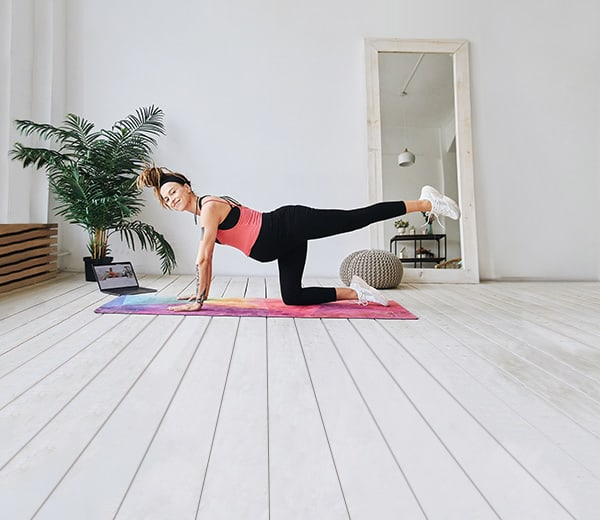
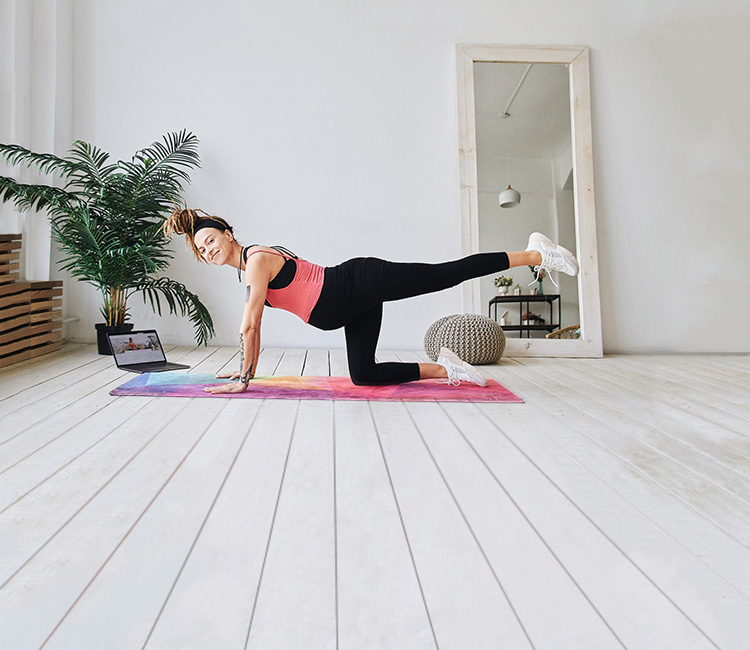
Change images and improve hero

diff --git a/src/views/courses/sektamama.vue b/src/views/courses/sektamama.vue
@@ -1,7 +1,7 @@
 <template lang="pug">
 div.course
 
-	hero(image='course_bg-sectamama.jpg', title='ИДЕАЛЬНОЕ ТЕЛО ДЛЯ МАМ', inversed)
+	hero(image='course_bg-sectamama.jpg', title='ИДЕАЛЬНОЕ ТЕЛО ДЛЯ МАМ')
 		p Пришло время обновить тело, которое с достоинством прошло испытание на прочность. Мы создали программу «Идеальное тело для мамы», чтобы вы могли успевать по максимуму: заниматься ребенком, собой, отдыхать и находить силы и время для тренировок.
 		p С вас — желание любоваться собой в зеркале и стать примером для своего малыша. С нас — детально проработанная программа, сбалансированный рацион, консультации и поддержка команды профессиональных кураторов и экспертов, которые не понаслышке знают, какой путь вы сейчас проходите. Ведь они тоже мамы.
 		template(v-slot:buttons)

diff --git a/src/views/courses/main.vue b/src/views/courses/main.vue
@@ -53,13 +53,14 @@
 				.img(:style="{ backgroundImage: `url(' ${require('@/assets/images/course_wide_bg-pregnant.jpg')} ')`}")
 				.mobile-img(:style="{ backgroundImage: `url(' ${require('@/assets/images/course_mobile_bg-pregnant.jpg')} ')`}")
 			.content-wrapper
-				.content
+				.content.fix-to-top
 					.title Школа идеального тела для беременных
+					p СО ВТОРОГО ТРИМЕСТРА
 					p Поможет:
 					ul
 						li сохранить форму,
 						li укрепить организм,
-						li обеспечить здоровое протекание беременности. СО ВТОРОГО ТРИМЕСТРА
+						li обеспечить здоровое протекание беременности.
 					.buttons
 						router-link(title='#sektamama', to='/online-courses/pregnant')
 							green-btn Подробности
@@ -181,6 +182,11 @@
 		.content {
 			padding: 20px var(--col-space);
 			max-width: calc(var(--col-total)*6 /2);
+			@media (min-width: 601px) {
+				&.fix-to-top {
+					align-self: flex-start;
+				}
+			}
 			.title {
 				font-weight: 900;
 				font-family: var(--font-second);

diff --git a/src/views/courses/accu.vue b/src/views/courses/accu.vue
@@ -1,7 +1,7 @@
 <template lang="pug">
 div.course
 
-	hero(image='course_bg-accu.jpg', title='#SektaAccuСhek Программа для людей с диабетом', horizontal)
+	hero(image='course_bg-accu.jpg', title='#SektaAccuСhek Программа для людей с диабетом', no-mobile, horizontal)
 		p Программа #SektaAccuСhek разработана для людей с диабетом 1 и 2 типа и их родственников.
 		p Проходите курс сами или помогайте в его прохождении родным с диабетом: детям или пожилым родителям.
 		p Тренировки программы учитывают особенности изменения гликемии во время, до и после занятия. Они подойдут и людям из группы риска по развитию метаболических нарушений, с лишним весом и желающим следить за здоровьем.

diff --git a/src/components/heroes/aside-hero.vue b/src/components/heroes/aside-hero.vue
@@ -6,7 +6,7 @@ section.aside-hero
 				svg(height='500' viewBox='0 0 150 500')
 					polygon.triangle(fill='white' points='0,0 150,250 0,500')
 			.img(:class='{horizontal: horizontal}', :style="{ backgroundImage: `url(' ${backgroundImage} ')`}")
-			.mobile-img(:style="{ backgroundImage: `url(' ${backgroundImage_mobile} ')`}")
+			.mobile-img(v-if='!noMobile && !!backgroundImage_mobile', :style="{ backgroundImage: `url(' ${backgroundImage_mobile} ')`}")
 		.content
 			.limit
 				.wrapper
@@ -36,6 +36,10 @@ section.aside-hero
 				default: false
 			},
 			inversed: {
+				type: Boolean,
+				default: false
+			},
+			noMobile: {
 				type: Boolean,
 				default: false
 			},

diff --git a/src/views/certificates.vue b/src/views/certificates.vue
@@ -1,7 +1,7 @@
 <template lang="pug">
 div.course
 
-	hero(image='certificates_bg.jpg', title='Подарочный сертификат')
+	hero(image='certificates_bg.jpg', title='Подарочный сертификат', no-mobile)
 		p Полезный подарок - самый лучший!
 		p Все онлайн-курсы #sekta, очные тренировки в зале — всё это можно подарить друзьям и близким.
 		p В зависимости от суммы, подарочный сертификат #sekta может стать:

diff --git a/src/views/personal/main.vue b/src/views/personal/main.vue
@@ -85,7 +85,7 @@ div
 
 				h2.section-title Сертфикаты
 				.tile.certificate
-					.img(:style="{ backgroundImage: `url('${require('@/assets/images/certificates_bg.jpg')}')` }")
+					.img(:style="{ backgroundImage: `url('${require('@/assets/images/aside-hero/certificates_bg.jpg')}')` }")
 					.text СЕРТИФИКАТ НА СУММУ 10 900руб.
 
 

diff --git a/src/components/header.vue b/src/components/header.vue
@@ -294,7 +294,10 @@ header.main-header
 <style lang="postcss" scoped>
 	.main-header {
 		position: relative;
-		z-index: 4;
+		z-index: 3;
+		@media (max-width: 600px) {
+			z-index: 5;
+		}
 		.header-offset {
 			@media (max-width: 600px) {
 				height: 65px;
